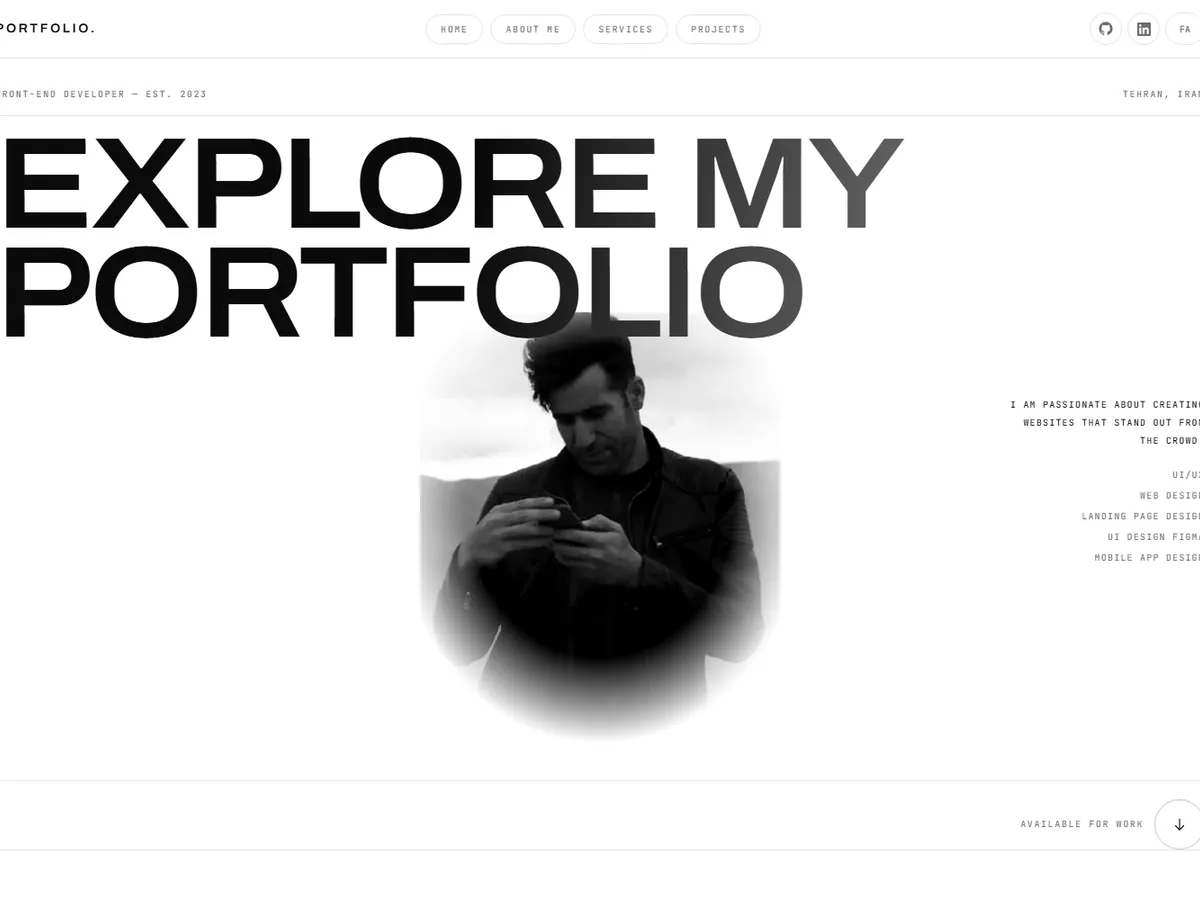
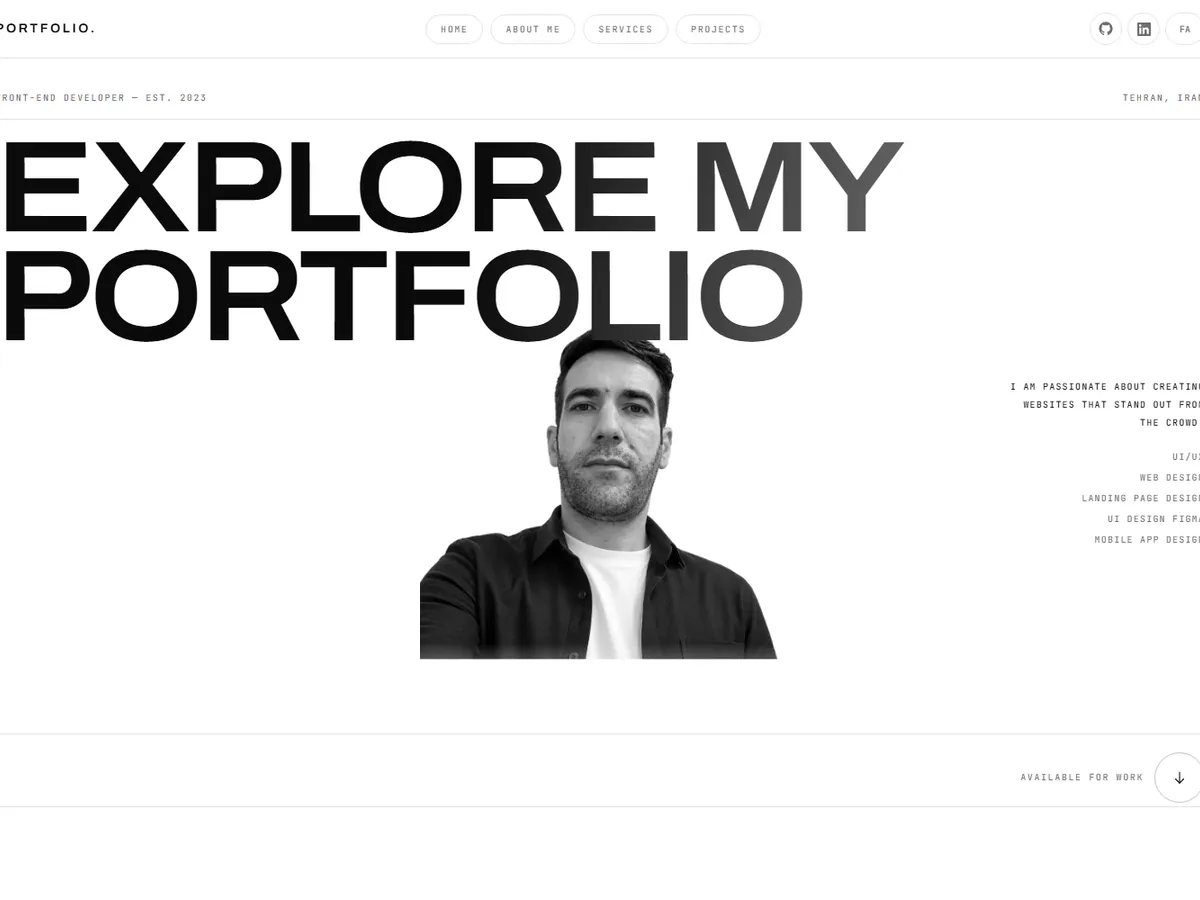
feat(portfolio-v3): cutout portrait and site-first work order

diff --git a/myportfolio3/src/content/work.ts b/myportfolio3/src/content/work.ts
@@ -18,8 +18,17 @@ export interface WorkItem {
  */
 export const work: WorkItem[] = [
   {
-    slug: "digital-shop",
+    slug: "this-site",
     index: "01",
+    title: { en: "This site", fa: "همین سایت" },
+    category: "web",
+    categoryLabel: { en: "Web design", fa: "طراحی وب" },
+    image: "/images/work-site.webp",
+    source: "https://github.com/asgharnasiri1990/AiProjects",
+  },
+  {
+    slug: "digital-shop",
+    index: "02",
     title: { en: "DigitalShop", fa: "دیجیتالشاپ" },
     category: "web",
     categoryLabel: { en: "Web storefront", fa: "فروشگاه وب" },
@@ -28,21 +37,12 @@ export const work: WorkItem[] = [
   },
   {
     slug: "flight-lookup",
-    index: "02",
+    index: "03",
     title: { en: "Flight lookup", fa: "ردیاب پرواز" },
     category: "tools",
     categoryLabel: { en: "Tool", fa: "ابزار" },
     image: "/images/work-flight.webp",
     source:
       "https://github.com/asgharnasiri1990/AiProjects/tree/main/flight-tracker",
-  },
-  {
-    slug: "this-site",
-    index: "03",
-    title: { en: "This site", fa: "همین سایت" },
-    category: "web",
-    categoryLabel: { en: "Web design", fa: "طراحی وب" },
-    image: "/images/work-site.webp",
-    source: "https://github.com/asgharnasiri1990/AiProjects",
   },
 ];

diff --git a/myportfolio3/src/app/globals.css b/myportfolio3/src/app/globals.css
@@ -102,18 +102,10 @@
   );
 }
 
-/* The portrait dissolves into the page instead of sitting in a hard rectangle. */
-.portrait-fade {
-  -webkit-mask-image: radial-gradient(
-    ellipse 60% 56% at 50% 42%,
-    #000 62%,
-    transparent 96%
-  );
-  mask-image: radial-gradient(
-    ellipse 60% 56% at 50% 42%,
-    #000 62%,
-    transparent 96%
-  );
+/* The bust fades at its bottom edge so the crop does not read as a hard line. */
+.portrait-bottom-fade {
+  -webkit-mask-image: linear-gradient(to bottom, #000 84%, transparent 100%);
+  mask-image: linear-gradient(to bottom, #000 84%, transparent 100%);
 }
 
 @keyframes rise {

diff --git a/myportfolio3/src/components/portrait.tsx b/myportfolio3/src/components/portrait.tsx
@@ -9,15 +9,13 @@ export function Portrait({
   priority?: boolean;
 }) {
   return (
-    <div className="portrait-fade">
-      <Image
-        src={profile.photo}
-        alt={alt}
-        width={736}
-        height={920}
-        priority={priority}
-        className="h-auto w-full grayscale contrast-[1.16] brightness-[1.02] mix-blend-multiply"
-      />
-    </div>
+    <Image
+      src={profile.photo}
+      alt={alt}
+      width={920}
+      height={1150}
+      priority={priority}
+      className="portrait-bottom-fade h-auto w-full grayscale"
+    />
   );
 }

diff --git a/myportfolio3/src/app/[locale]/page.tsx b/myportfolio3/src/app/[locale]/page.tsx
@@ -55,7 +55,7 @@ export default async function HomePage({ params }: PageProps<"/[locale]">) {
               <span className="block">{c.heroLines[1]}</span>
             </h1>
 
-            <div className="relative z-0 -mt-8 flex justify-center sm:-mt-10">
+            <div className="relative z-0 -mt-16 flex justify-center sm:-mt-24">
               <div className="pointer-events-none w-[78%] max-w-[320px] sm:w-[52%] sm:max-w-[400px]">
                 <Portrait alt={c.portraitAlt} priority />
               </div>

diff --git a/myportfolio3/src/content/profile.ts b/myportfolio3/src/content/profile.ts
@@ -15,7 +15,7 @@ export const profile = {
     en: "Tehran, Iran",
     fa: "تهران، ایران",
   } satisfies Localized,
-  photo: "/images/portrait.jpg",
+  photo: "/images/portrait.png",
   socials: [
     { label: "GitHub", href: "https://github.com/asgharnasiri1990" },
     { label: "LinkedIn", href: "https://www.linkedin.com/in/asgharnasiri" },

diff --git a/myportfolio3/AGENTS.md b/myportfolio3/AGENTS.md
@@ -43,11 +43,11 @@ module-not-found error. The fonts are bundled; the site builds offline.
 - **Display type** uses `.display-wide` (`font-stretch: 112%`) and
   `.display-fade` (black→grey clipped gradient). Persian must not get
   `tracking-*` or `uppercase`; use `labelStyle` / `displayTracking`.
-- **The portrait** is `public/images/portrait.jpg` (GitHub avatar, 4:5),
-  grayscale + `mix-blend-multiply`, masked by `.portrait-fade`. It is
-  translated down (`translate-y-[30%]`) inside an `overflow-hidden` flex box so
-  the second headline line crosses the face. If you change the mask, keep the
-  fade ending before the container edge or a hard cut appears.
+- **The portrait** is `public/images/portrait.png`, a transparent cutout of the
+  owner on a 4:5 canvas (920 × 1150). It is grayscale and gets
+  `.portrait-bottom-fade`; it sits in normal flow with a negative top margin so
+  the second headline line crosses the hair. Keep the PNG transparent — there is
+  no mask around the silhouette, only the bottom fade.
 - **Work images** are real screenshots (`work-*.webp`), rendered grayscale.
   Do not replace them with stock photos; keep the `work.ts` sources real.
 - **Services** are intentionally the five labels from the reference (the

diff --git a/myportfolio3/README.md b/myportfolio3/README.md
@@ -41,10 +41,12 @@ npm start
 - **One accent, none:** pure black / white / grey. No shadows, no colour.
 - **The headline** uses Archivo's width axis (`font-stretch: 112%`) and a
   black→grey clipped gradient. Persian uses Vazirmatn and no tracking.
-- **The portrait** (`portrait.jpg`, the owner's GitHub avatar) is grayscale,
-  multiplied over the paper, and faded with a radial mask. It sits behind the
-  second headline line, like the reference. Replace the file at the same path
-  to change it; keep it 4:5.
+- **The portrait** is `portrait.png` — a transparent cutout on a 4:5 canvas,
+  grayscale, with a bottom fade. It is pulled up under the second headline
+  line. Replace the file at the same path to change it; keep the background
+  transparent.
+- **Work order:** this site first (01), then DigitalShop (02), then Flight
+  lookup (03). This is the order in `src/content/work.ts` and on the page.
 - **Work screenshots** are real captures of `shop/`, `flight-tracker/` and this
   app, stored as `work-shop.webp`, `work-flight.webp`, `work-site.webp`.
 - **Services** are the five labels from the reference, as requested.
